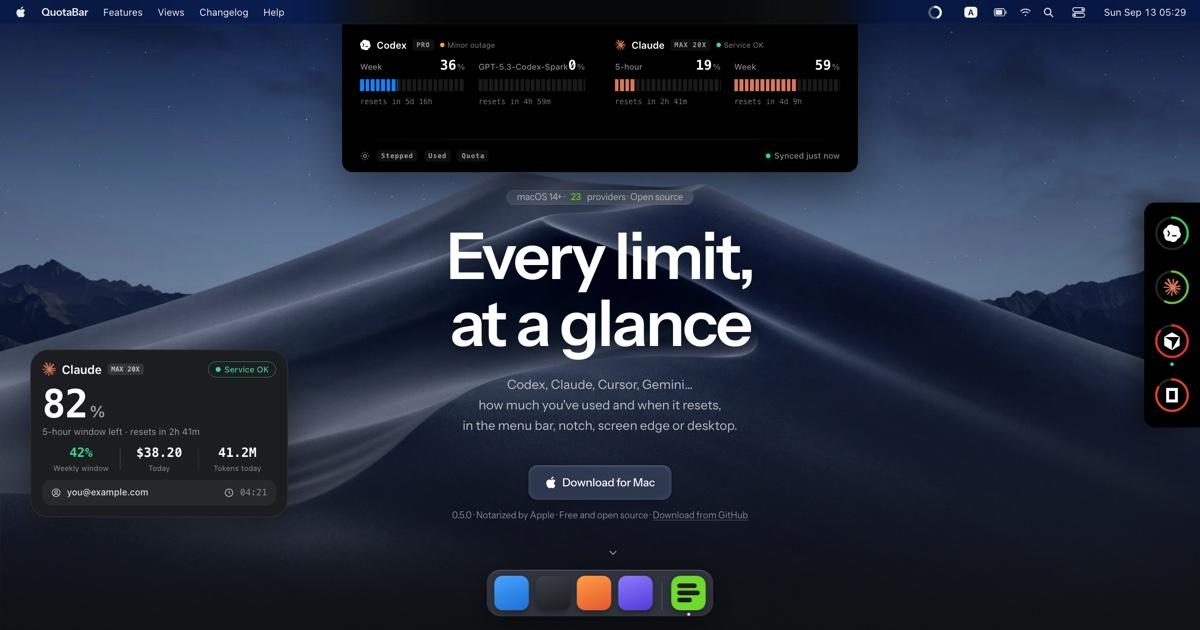
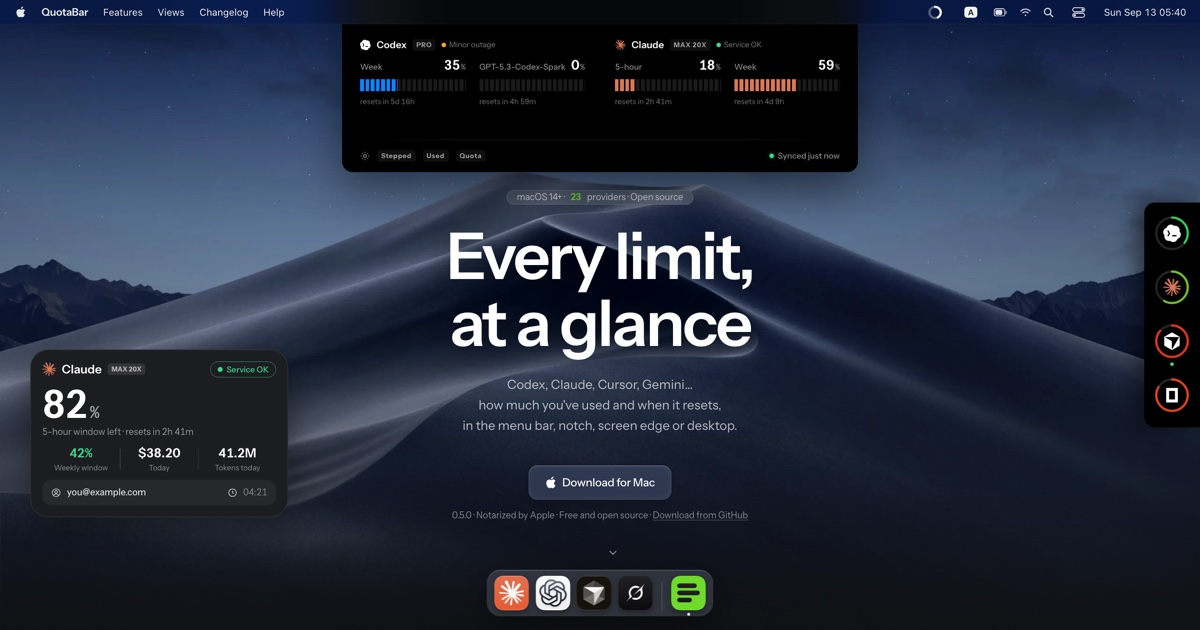
Site: Instrument Sans throughout the English page, drag the edge dock along either edge and the desktop card anywhere, Claude, ChatGPT, Cursor and Grok in the Dock

diff --git a/web/replica.js b/web/replica.js
@@ -199,6 +199,7 @@
 
     var rings = dock.querySelectorAll(".qb-ring[data-id]");
     function show(ring) {
+      if (dock.classList.contains("is-dragging")) return;
       var id = ring.getAttribute("data-id");
       callout.innerHTML = calloutMarkup(id);
       // 垂直居中对齐这一格，和应用里把气泡对准圆环中心是同一件事
@@ -224,6 +225,73 @@
     dock.addEventListener("focusout", function (e) {
       if (!dock.contains(e.relatedTarget)) hide();
     });
+
+    /* ── 拖动停靠条：和应用一样贴着屏幕边缘 ─────────────────────────
+     * 按住上下拖改变高度；横向跟着指针走，松手时落在首屏哪一半，就吸到
+     * 哪一侧的边缘。位置记在本地：哪一侧，加上中心点在首屏高度里的比例
+     * （用比例，窗口换了高度也还在差不多的地方）。 */
+    var desk = document.querySelector(".desktop");
+    var place = { side: "right", y: 0.5 };
+    try {
+      var saved = JSON.parse(localStorage.getItem("qb-dock") || "null");
+      if (saved && (saved.side === "left" || saved.side === "right") && saved.y > 0 && saved.y < 1) place = saved;
+    } catch (e) { /* 用默认 */ }
+    function applyPlace() {
+      dock.classList.toggle("is-left", place.side === "left");
+      dock.style.left = "";
+      dock.style.right = "";
+      dock.style.top = (place.y * 100).toFixed(2) + "%";
+    }
+    applyPlace();
+
+    var grab = null;
+    dock.addEventListener("pointerdown", function (e) {
+      if (e.button !== 0 || !desk) return;
+      var box = dock.getBoundingClientRect(), deskBox = desk.getBoundingClientRect();
+      grab = { id: e.pointerId, x: e.clientX, y: e.clientY, dx: e.clientX - box.left, cy: box.top + box.height / 2 - deskBox.top, moved: false };
+    });
+    window.addEventListener("pointermove", function (e) {
+      if (!grab || e.pointerId !== grab.id) return;
+      if (!grab.moved) {
+        if (Math.abs(e.clientX - grab.x) + Math.abs(e.clientY - grab.y) < 5) return;
+        grab.moved = true;
+        dock.setPointerCapture(e.pointerId);
+        dock.style.animation = "none";   // 进场动画的终态会压住拖动时的位置
+        dock.classList.remove("is-snapping");
+        dock.classList.add("is-dragging");
+        hide();
+      }
+      var deskBox = desk.getBoundingClientRect(), w = dock.offsetWidth, h = dock.offsetHeight;
+      var left = Math.min(Math.max(e.clientX - deskBox.left - grab.dx, 0), deskBox.width - w);
+      var cy = Math.min(Math.max(grab.cy + e.clientY - grab.y, 40 + h / 2), deskBox.height - h / 2 - 8);
+      dock.classList.remove("is-left");
+      dock.style.right = "auto";
+      dock.style.left = left + "px";
+      dock.style.top = cy + "px";
+    });
+    function drop(e) {
+      if (!grab || e.pointerId !== grab.id) return;
+      var moved = grab.moved;
+      grab = null;
+      if (!moved) return;
+      var deskBox = desk.getBoundingClientRect(), box = dock.getBoundingClientRect();
+      place = {
+        side: box.left + box.width / 2 - deskBox.left < deskBox.width / 2 ? "left" : "right",
+        y: (box.top + box.height / 2 - deskBox.top) / deskBox.height,
+      };
+      try { localStorage.setItem("qb-dock", JSON.stringify(place)); } catch (err) { /* 忽略 */ }
+      dock.classList.remove("is-dragging");
+      // 先把 left 动画到那一侧的边缘，落定后再交给 CSS 的 left/right: 0，
+      // 这样窗口再改宽度，条子仍然贴边。
+      dock.classList.add("is-snapping");
+      dock.style.left = (place.side === "left" ? 0 : deskBox.width - box.width) + "px";
+      setTimeout(function () {
+        dock.classList.remove("is-snapping");
+        applyPlace();
+      }, reduced() ? 0 : 300);
+    }
+    window.addEventListener("pointerup", drop);
+    window.addEventListener("pointercancel", drop);
   }
 
 })();
@@ -485,7 +553,7 @@
   host.innerHTML = '<div class="dc" tabindex="0" role="group" aria-label="' + T("QuotaBar desktop card. Right-click it, or use the button at the top right, to change its style", "QuotaBar 桌面卡片，右键或点右上角按钮更换样式") + '">' +
     '<div class="dc-body"></div><button class="dc-more" type="button" aria-label="' + T("Card settings", "卡片设置") + '" aria-haspopup="menu">' +
     '<svg viewBox="0 0 16 16" width="14" height="14" fill="currentColor"><circle cx="3.5" cy="8" r="1.4"/><circle cx="8" cy="8" r="1.4"/><circle cx="12.5" cy="8" r="1.4"/></svg></button></div>' +
-    '<p class="dc-hint">' + T("Right-click the card, or click ⋯, to change its style and size", "右键卡片，或点右上角 ⋯ 换样式和尺寸") + "</p>";
+    '<p class="dc-hint">' + T("Drag to move the card or the dock · right-click to restyle", "卡片和停靠条都能按住拖动 · 右键或点 ⋯ 换样式") + "</p>";
   var card = host.querySelector(".dc"), body = host.querySelector(".dc-body"), more = host.querySelector(".dc-more"), hint = host.querySelector(".dc-hint");
   try { if (localStorage.getItem("qb-deskcard-hinted")) hint.hidden = true; } catch (e) { /* 忽略 */ }
 
@@ -552,7 +620,12 @@
     var b = e.target.closest("button[data-action]");
     if (!b || b.disabled) return;
     var parts = b.getAttribute("data-action").split(":");
-    if (parts[0] === "reset") { state = { style: DEFAULT.style, size: DEFAULT.size, provider: DEFAULT.provider }; }
+    if (parts[0] === "reset") {
+      state = { style: DEFAULT.style, size: DEFAULT.size, provider: DEFAULT.provider };
+      // 恢复默认也把卡片放回左下角
+      host.style.left = host.style.top = host.style.bottom = "";
+      try { localStorage.removeItem("qb-deskcard-pos"); } catch (err) { /* 忽略 */ }
+    }
     else { state[parts[0]] = parts[1]; }
     save();
     closeMenu();
@@ -602,6 +675,22 @@
   window.addEventListener("pointerup", function (e) {
     if (!drag || e.pointerId !== drag.id) return;
     card.classList.remove("is-dragging");
+    if (drag.moved) {
+      // 按首屏的比例记，窗口大小变了也还在同一片区域
+      var d = desk.getBoundingClientRect();
+      var pos = { x: parseFloat(host.style.left) / d.width, y: parseFloat(host.style.top) / d.height };
+      host.style.left = (pos.x * 100).toFixed(2) + "%";
+      host.style.top = (pos.y * 100).toFixed(2) + "%";
+      try { localStorage.setItem("qb-deskcard-pos", JSON.stringify(pos)); } catch (err) { /* 忽略 */ }
+    }
     drag = null;
   });
+  try {
+    var pos = JSON.parse(localStorage.getItem("qb-deskcard-pos") || "null");
+    if (pos && pos.x >= 0 && pos.x < 1 && pos.y > 0 && pos.y < 1) {
+      host.style.left = (pos.x * 100).toFixed(2) + "%";
+      host.style.top = (pos.y * 100).toFixed(2) + "%";
+      host.style.bottom = "auto";
+    }
+  } catch (e) { /* 用默认位置 */ }
 })();

diff --git a/web/replica.css b/web/replica.css
@@ -467,3 +467,40 @@
   .dc, .dc-body, .dc-more { transition: none !important; }
   .dc-steps > span, .dc-bar > span, .dc-gauge__arc, .dc-draw, .dc-bars__col i { animation: none !important; }
 }
+
+/* ── 英文页的字体 ─────────────────────────────────────────────────────
+ * 英文页上刘海岛面板、停靠条和它的悬停卡片、桌面卡片都用 Instrument Sans，
+ * 和标题、正文、字标同一套字。原来用 SF Mono 的百分比、重置时间、套餐芯片
+ * 也换过来，靠字体自带的等宽数字（tnum）继续对齐。
+ * 仿 macOS 的菜单栏、下拉菜单和右键菜单仍是系统字体——那是系统的界面。
+ * 中文页不动：中文落到苹方，数字仍是系统字体与 SF Mono。 */
+:root[lang="en"] .qb,
+:root[lang="en"] .qb-widget,
+:root[lang="en"] .dc,
+:root[lang="en"] .dc-hint,
+:root[lang="en"] :is(.qb-chip, .qb-ipct, .qb-itile__reset, .qb-callout__acct, .dc-plan, .dc-mono, .dc-figure b, .dc-stat b, .dc-money) {
+  font-family: "Instrument Sans", -apple-system, BlinkMacSystemFont, sans-serif;
+  font-variant-numeric: tabular-nums;
+}
+:root[lang="en"] .qb-chip { letter-spacing: .06em; }
+
+/* ── 拖动停靠条 ───────────────────────────────────────────────────────
+ * 和应用一样：按住沿屏幕边缘上下拖，拖过首屏中线就换到另一侧。拖动时条子
+ * 离开边缘、四角都圆，松手吸回最近的一侧。 */
+.desktop__strip { cursor: grab; touch-action: none; user-select: none; -webkit-user-select: none; }
+.desktop__strip.is-dragging {
+  cursor: grabbing;
+  border-radius: 14px;
+  box-shadow: rgba(0, 0, 0, 0.55) 0 18px 50px 0;
+}
+.desktop__strip.is-snapping { transition: left 280ms cubic-bezier(.2, .9, .25, 1), top 280ms cubic-bezier(.2, .9, .25, 1); }
+.desktop__strip.is-left { left: 0; right: auto; border-radius: 0 14px 14px 0; box-shadow: rgba(0, 0, 0, 0.5) 10px 0 30px 0; animation-name: slidein-left; }
+.desktop__strip.is-left .qb-callout { left: calc(100% + 8px); right: auto; transform: translateX(-6px); }
+.desktop__strip.is-left .qb-callout.is-on { transform: none; }
+@keyframes slidein-left {
+  from { opacity: 0; transform: translate(-28px, -50%); }
+  to { opacity: 1; transform: translateY(-50%); }
+}
+@media (prefers-reduced-motion: reduce) {
+  .desktop__strip.is-snapping { transition: none; }
+}

diff --git a/site/index.html b/site/index.html
@@ -354,11 +354,14 @@
     </div>
   </div>
 
+  <!-- Dock 里是 QuotaBar 读额度的那几个桌面应用。前三个图标从本机装的 Claude、
+       ChatGPT（Codex）、Cursor 应用导出（Dock 实际显示的那张，裁到 824 的图标网格）；
+       Grok 没有装，用站点里的 Grok 标志按同样规格做成黑底图标。 -->
   <div class="dock" id="dock">
-    <span class="dock__tile" style="background:linear-gradient(160deg,#4aa3ff,#1c6fd6)" title="[[Finder||访达]]"></span>
-    <span class="dock__tile" style="background:linear-gradient(160deg,#3d4148,#191b1f)" title="[[Terminal||终端]]"></span>
-    <span class="dock__tile" style="background:linear-gradient(160deg,#ff9f43,#e4572e)" title="[[Editor||编辑器]]"></span>
-    <span class="dock__tile" style="background:linear-gradient(160deg,#8e7bff,#4f3ad6)" title="[[Browser||浏览器]]"></span>
+    <span class="dock__tile" title="Claude"><img src="{{root}}assets/dock/claude.png?v={{v}}" alt="" width="46" height="46"></span>
+    <span class="dock__tile" title="ChatGPT"><img src="{{root}}assets/dock/chatgpt.png?v={{v}}" alt="" width="46" height="46"></span>
+    <span class="dock__tile" title="Cursor"><img src="{{root}}assets/dock/cursor.png?v={{v}}" alt="" width="46" height="46"></span>
+    <span class="dock__tile" title="Grok"><img src="{{root}}assets/dock/grok.png?v={{v}}" alt="" width="46" height="46"></span>
     <span class="dock__sep"></span>
     <a class="dock__tile dock__tile--app" href="{{dmg}}" download title="[[Download QuotaBar||下载 QuotaBar]]">
       <img src="{{root}}assets/icon.png?v={{v}}" alt="QuotaBar">

diff --git a/web/zh/index.html b/web/zh/index.html
@@ -350,11 +350,14 @@
     </div>
   </div>
 
+  <!-- Dock 里是 QuotaBar 读额度的那几个桌面应用。前三个图标从本机装的 Claude、
+       ChatGPT（Codex）、Cursor 应用导出（Dock 实际显示的那张，裁到 824 的图标网格）；
+       Grok 没有装，用站点里的 Grok 标志按同样规格做成黑底图标。 -->
   <div class="dock" id="dock">
-    <span class="dock__tile" style="background:linear-gradient(160deg,#4aa3ff,#1c6fd6)" title="访达"></span>
-    <span class="dock__tile" style="background:linear-gradient(160deg,#3d4148,#191b1f)" title="终端"></span>
-    <span class="dock__tile" style="background:linear-gradient(160deg,#ff9f43,#e4572e)" title="编辑器"></span>
-    <span class="dock__tile" style="background:linear-gradient(160deg,#8e7bff,#4f3ad6)" title="浏览器"></span>
+    <span class="dock__tile" title="Claude"><img src="../assets/dock/claude.png?v=604b7bb2" alt="" width="46" height="46"></span>
+    <span class="dock__tile" title="ChatGPT"><img src="../assets/dock/chatgpt.png?v=604b7bb2" alt="" width="46" height="46"></span>
+    <span class="dock__tile" title="Cursor"><img src="../assets/dock/cursor.png?v=604b7bb2" alt="" width="46" height="46"></span>
+    <span class="dock__tile" title="Grok"><img src="../assets/dock/grok.png?v=604b7bb2" alt="" width="46" height="46"></span>
     <span class="dock__sep"></span>
     <a class="dock__tile dock__tile--app" href="https://quota.bar/download/QuotaBar-0.5.0.dmg" download title="下载 QuotaBar">
       <img src="../assets/icon.png?v=604b7bb2" alt="QuotaBar">

diff --git a/web/index.html b/web/index.html
@@ -353,11 +353,14 @@
     </div>
   </div>
 
+  <!-- Dock 里是 QuotaBar 读额度的那几个桌面应用。前三个图标从本机装的 Claude、
+       ChatGPT（Codex）、Cursor 应用导出（Dock 实际显示的那张，裁到 824 的图标网格）；
+       Grok 没有装，用站点里的 Grok 标志按同样规格做成黑底图标。 -->
   <div class="dock" id="dock">
-    <span class="dock__tile" style="background:linear-gradient(160deg,#4aa3ff,#1c6fd6)" title="Finder"></span>
-    <span class="dock__tile" style="background:linear-gradient(160deg,#3d4148,#191b1f)" title="Terminal"></span>
-    <span class="dock__tile" style="background:linear-gradient(160deg,#ff9f43,#e4572e)" title="Editor"></span>
-    <span class="dock__tile" style="background:linear-gradient(160deg,#8e7bff,#4f3ad6)" title="Browser"></span>
+    <span class="dock__tile" title="Claude"><img src="assets/dock/claude.png?v=604b7bb2" alt="" width="46" height="46"></span>
+    <span class="dock__tile" title="ChatGPT"><img src="assets/dock/chatgpt.png?v=604b7bb2" alt="" width="46" height="46"></span>
+    <span class="dock__tile" title="Cursor"><img src="assets/dock/cursor.png?v=604b7bb2" alt="" width="46" height="46"></span>
+    <span class="dock__tile" title="Grok"><img src="assets/dock/grok.png?v=604b7bb2" alt="" width="46" height="46"></span>
     <span class="dock__sep"></span>
     <a class="dock__tile dock__tile--app" href="https://quota.bar/download/QuotaBar-0.5.0.dmg" download title="Download QuotaBar">
       <img src="assets/icon.png?v=604b7bb2" alt="QuotaBar">

diff --git a/web/README.md b/web/README.md
@@ -30,8 +30,10 @@ python3 -m http.server 8080 --directory web   # 然后打开 http://localhost:80
 没有复制 onlook.cam 的 `styles.css` 或 `app.js`，页面文案、截图和信息
 架构都是 QuotaBar 自己的。
 
-英雄区的壁纸是 CSS 渐变，不是任何现成图片；Dock 里除 QuotaBar 外的
-图标是抽象色块，没有复刻 Apple 的图标。
+首屏壁纸是 macOS Mojave 的沙丘（白天、夜晚各一张 WebP）。Dock 里是 QuotaBar 读额度的
+几个桌面应用：Claude、ChatGPT（Codex）、Cursor 的图标从装在 Mac 上的应用导出
+（`assets/dock/`，裁到 824 的图标网格），Grok 用站点里的 Grok 标志做成同规格的黑底图标。
+停靠条和桌面卡片都能拖动，位置记在本地（`qb-dock`、`qb-deskcard-pos`）。
 
 ## 截图怎么来的
 
